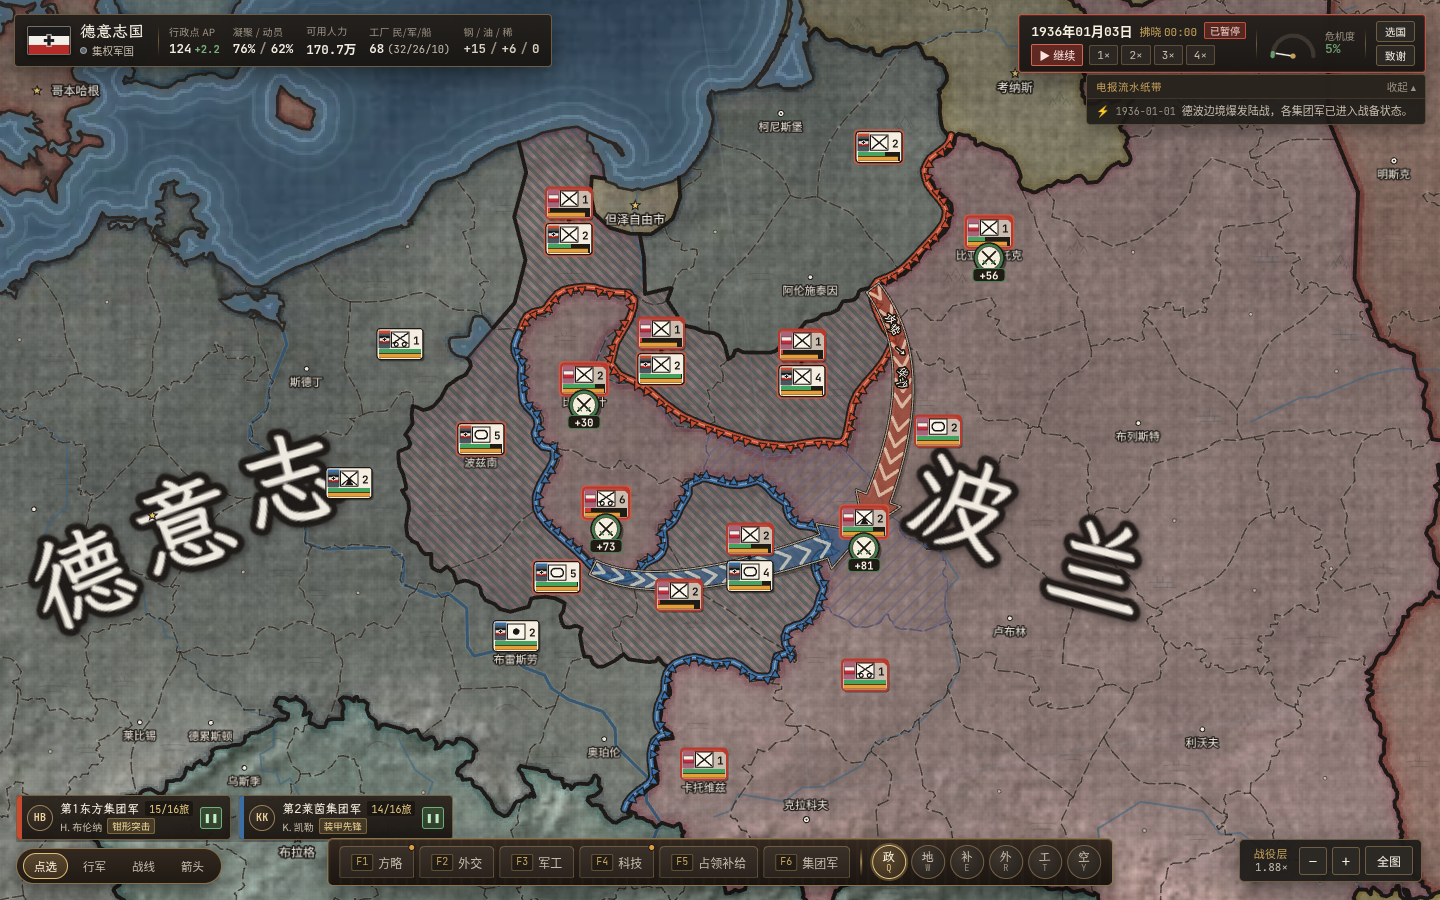
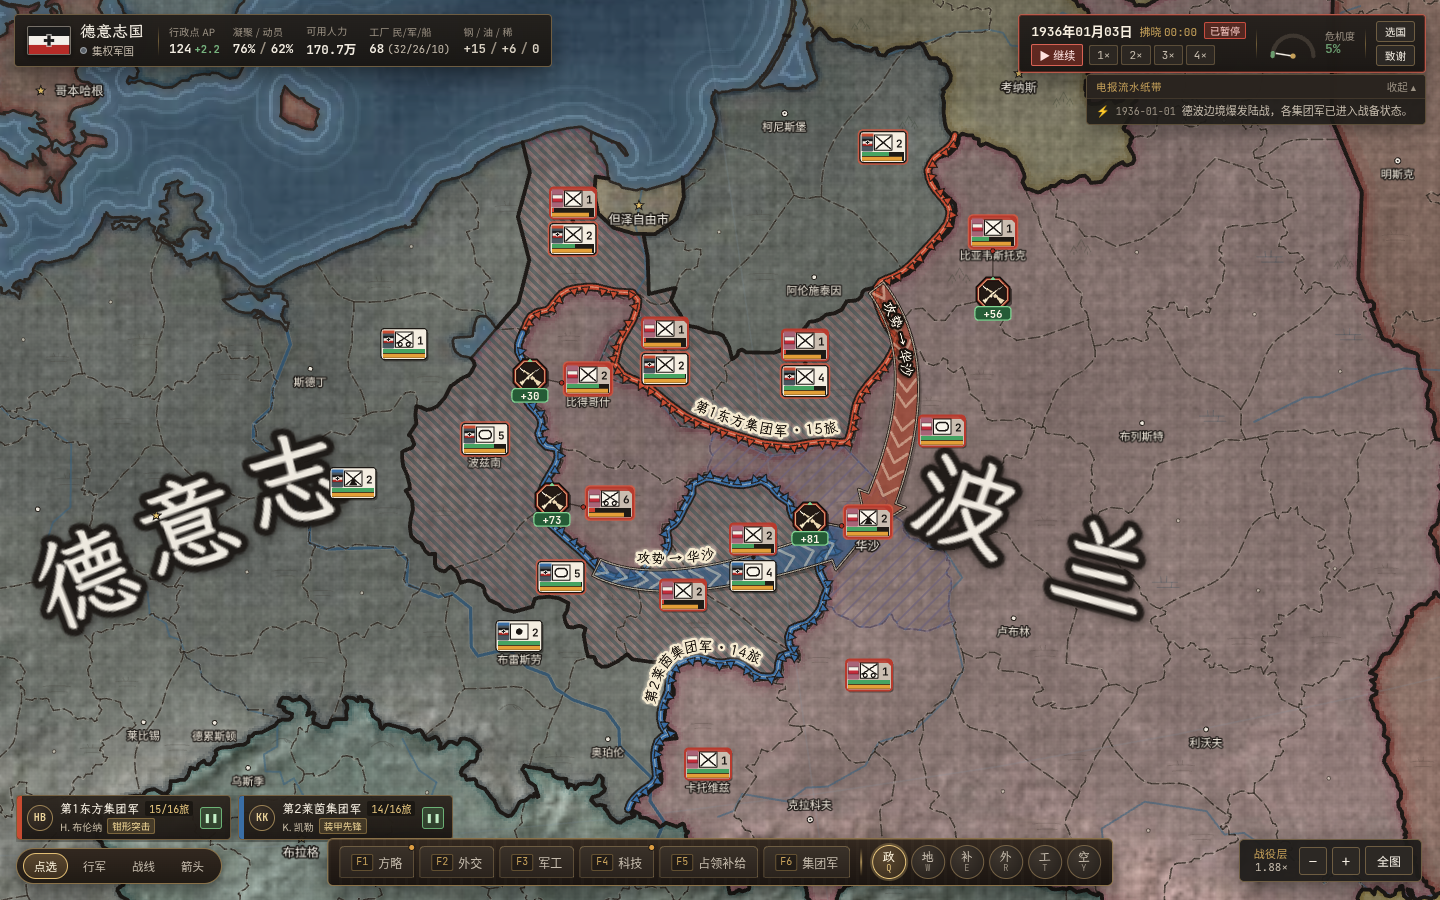
feat(batch-06): recapture 4 b6 readability shots and update Batch 06 progress

diff --git a/docs/PROGRESS_BATCH6.md b/docs/PROGRESS_BATCH6.md
@@ -16,9 +16,9 @@
   - 集团军激活中的进攻箭头真正驱动前线部队沿箭头方向向目标省持续推进，同时严格尊重 `manualOverride` 手操锁；新增调试参数 `mockWar=GER_POL` / `GER_POL_POCKET`、`tick=<N>`、`panel=battle`、`selectArmy=<N>`。
 - [x] 4. **原创参谋桌风格渲染与可读性打磨（`provinceLut.ts`、`frontlineGeometry.ts`、`FrontlineLabelHelper.ts`、`FrontlineArrowLayer.ts`、`counterArt.ts`、`UnitCounterLayer.ts`、`CombatBubbleLayer.ts`、`PocketLayer.ts`）**：
   - **军事占领双色斜纹**：在 `provinceLut` 片元着色器以屏幕像素空间 `mod(gl_FragCoord.x + gl_FragCoord.y, 10.0)` 合成法理色与占领色斜纹，任意缩放零摩尔纹。
-  - **全接触连续战线与弯曲手写标注**：按实时省份控制权无缝拼接整条接触边界，多集团军自动分区不重叠；加粗双层墨线配朝向敌方的参谋锯齿；LOD 1+ 沿曲线排布霞鹜文楷手写体标注（局部左右定向防倒字，自动避让城市/军牌/交战印章）；进攻箭头起点吸附战线，目标省覆盖集团军色铅笔斜线，执行中流光、暂停时呈静止虚线。
+  - **全接触连续战线与弯曲手写标注**：按实时省份控制权无缝拼接整条接触边界，多集团军自动分区不重叠；加粗双层墨线配朝向敌方的参谋锯齿；LOD 1+ 沿偏移曲线重参数化弧长排布 13–15px 霞鹜文楷手写体标注（深墨字配米色纸质描边与光晕，箭头内采用浅米字加深墨描边），支持局部左右定向、防弯折挤字及自动避让城市/军牌/交战印章，确保视野内每条战线至少一处清晰标注（LOD 0 自动隐藏）；进攻箭头起点吸附战线，目标省覆盖集团军色铅笔斜线，执行中流光、暂停时呈静止虚线。
   - **军牌敌我区分与中景去噪**：己方米白卡纸、盟友灰蓝卡纸、敌方灰褐卡纸配朱红粗边与角标；双进度条加粗至 `4px+4px` 且低于 `30%` 变警示朱红；中景交战或战线视图自动隐藏无关中立国军牌。
-  - **交战印章与包围环**：原创交叉刺刀矢量圆印（按优势方着色并标攻方优势分，点击打开战地简报抽屉）；被围口袋仅绘制一圈虚线环与「被围 · N旅」单枚印章，避免箭头杂乱；全歼触发短暂非遮挡「合围歼灭 ×N 旅」战报徽章。
+  - **交战印章与包围环**：原创朱红/深墨八角火漆印，内嵌自绘 SVG 两把交叉刺刀步枪剪影（清晰区分枪托、枪管、准星与刺刀刃，与北约步兵军标彻底区分），下方保留按优势方着色的优势值徽章；印章通过碰撞避让自动落位于军牌旁侧（绝不压住军牌与城市名），辅以极细指向短线锚定交战省，点击打开战地简报抽屉；被围口袋仅绘制一圈虚线环与「被围 · N旅」单枚印章，避免箭头杂乱；全歼触发短暂非遮挡「合围歼灭 ×N 旅」战报徽章。
 - [x] 5. **左下集团军卡、F6 将领指派与右侧战地简报抽屉（`ArmyCardsBar.tsx`、`WipeoutBanner.tsx`、`BattleReportDrawer.tsx`、`ArmyForcesTab.tsx`）**：
   - 左下指令胶囊上方并排展示集团军快捷卡（色签、名号、旅数、将领首字母徽章与特性、攻势启停按钮），点击即选中并高亮战线；F6 抽屉支持单将领委任与攻势启停。
   - 右侧 380px `[省级战地简报]` 抽屉完整呈现战役名（地形/渡河/要塞）、多战役切换、攻守双方前锋/支援槽矩阵、预备队、VS 战况评估条、堑壕/筹备加成及选中旅逐项透明乘数拆解。
@@ -26,6 +26,10 @@
   - `npm test`：**8 个测试文件 41/41 全绿**（既有 32 项全部保持通过 + 新增 9 项 Batch 06 专项测试，涵盖战斗确定性、槽位拓宽、重炮无掩护惩罚、装甲压制开关、高山/大河/要塞修正、溃退占领、合围全歼与 15% 装备缴获守恒、口袋扫描与进攻箭头执行/手操锁保护）。
   - `tools/build_fonts.py` 重建 1,481 字形 WOFF2 子集；`src/assets/icons/combatIcons.ts` 登记至 `public/assets/ASSET_LICENSES.json` 与 `CREDITS.md`。
   - 新增 6 张 SwiftShader 1440×900 截图（未覆盖任何既有截图）并逐张目视复查确认零重叠、零断裂、零控制台报错：`shots/b6_front_full_contact.png`、`shots/b6_battle_marker.png`、`shots/b6_encirclement.png`、`shots/b6_battle_report.png`、`shots/b6_army_cards.png`、`shots/b6_counters_friend_foe.png`。
+- [x] 7. **Batch 06 终审可读性复核修补**：
+  - 升级战线与箭头手写体标注至 13–15px 霞鹜文楷（战线采用深墨字 `#1A130D` 配米色纸质描边/光晕 `#F5EAD0`，箭头上采用浅米字 `#FFF8EA` 加深墨描边 `#18120D`），改用偏移曲线弧长重参数化与多链滑窗评分，修复红线视野内缺标注与内弯挤字问题；LOD 0 继续隐藏。
+  - 重绘原创朱红/深墨八角火漆交战印章（`combatIcons.ts` 自绘 `64×64` 两把交叉刺刀步枪 SVG 剪影，`CombatBubbleLayer.ts` 同步矢量渲染并保留下方优势值），联动 `UnitCounterLayer` / `CurvedLabelLayer` 占位盒使印章稳妥落于军牌旁侧、不压住军牌与城市名。
+  - 复跑 `npm test`（41/41 全绿）与 `npm run build`（通过），重拍并逐张目视验收 `shots/b6_front_full_contact.png`、`shots/b6_battle_marker.png`、`shots/b6_battle_report.png`、`shots/b6_counters_friend_foe.png`（0 控制台报错）。
 
 ## 已知不足（留待后续批次补全）
 - 补给网络衰减、季节气候与缺粮惩罚留待 Batch 07 接入（本批乘数拆解显式显示「未启用 ×1.00」）。
